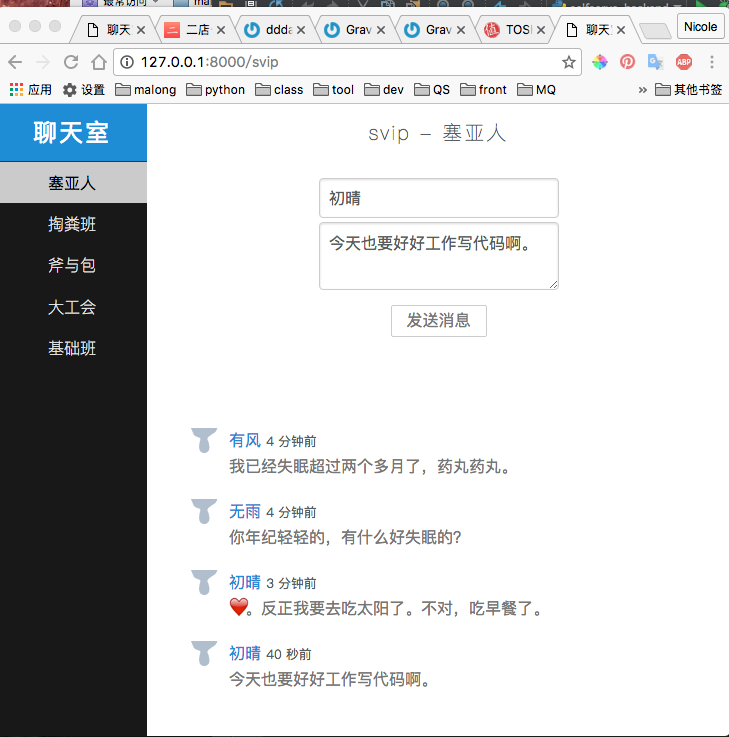
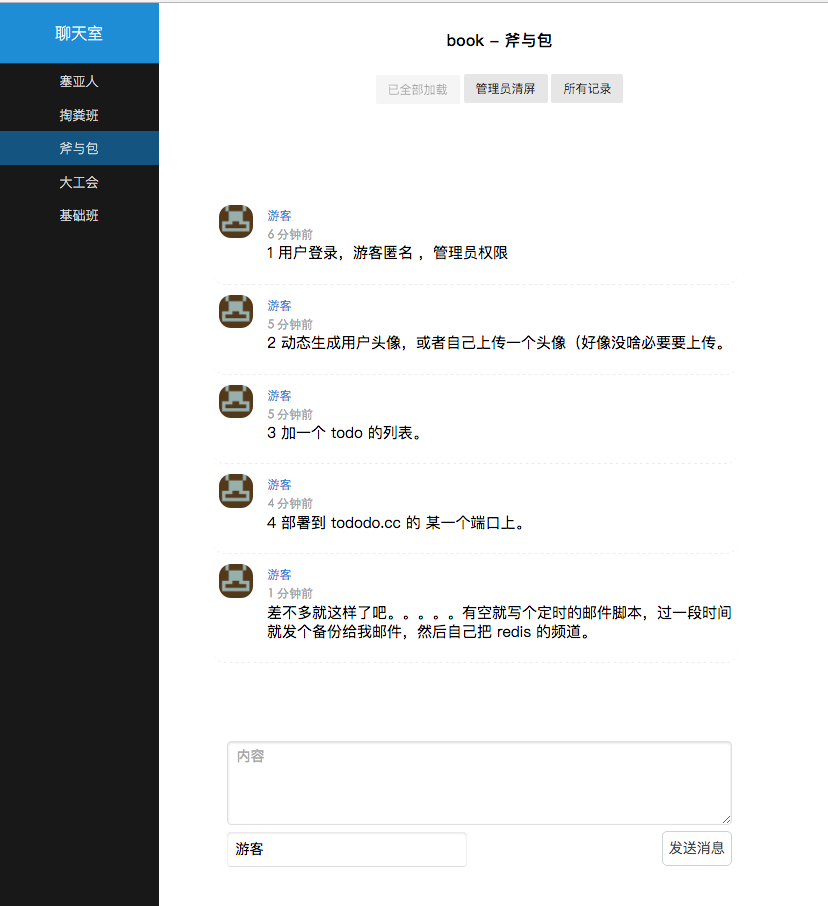
add

diff --git a/src/templates/chats.html b/src/templates/chats.html
@@ -1,0 +1,28 @@
+{% extends 'base.html' %}
+
+{% block board %}
+    <div id="id-div-board">
+        <h4 id="currentChannel" data-name="{{ channel_name }}">{{ channel_name }} - {{ channel_title }}</h4>
+    </div>
+{% endblock %}
+
+{% block content %}
+    {% if chats %}
+        {% for chat in chats %}
+            <div class="chat-item">
+                <div class="user">
+                    <div class="user-avatar"><img src="{{ chat.avatar }}" class="user-avatar"></div>
+                    <div class="user-info">
+                        <div class="user-name">{{ chat.name }}</div>
+                        <div class="pass-time" href="#">
+                            <time data-time="{{ chat.created_time }}"></time>
+                        </div>
+                    </div>
+                </div>
+                <div class="user_content">
+                    {{ chat.content }}
+                </div>
+            </div>
+        {% endfor %}
+    {% endif %}
+{% endblock %}

diff --git a/src/templates/base.html b/src/templates/base.html
@@ -36,7 +36,10 @@
             {% endblock %}
 
             <div class="content" id="id-div-chats">
+                {% block content %}
+                {% endblock %}
             </div>
+
             <div id="id-div-panel">
                 <form class="pure-form pure-form-stacked" style="width: 100%">
                     <textarea id='id-input-content' class="sai-form-block" placeholder="内容"></textarea>

diff --git a/src/redis_chat_app.py b/src/redis_chat_app.py
@@ -1,12 +1,19 @@
 # coding: utf-8
-from src.redis_channel import stream, redis_client, Chat_Channels, exist_channel
 
-from flask import Flask
-from flask import request
-from flask import render_template
-from flask import redirect, url_for, Response, abort
+import logging
 import time
 import json
+
+from flask import (
+    Flask,
+    request,
+    render_template,
+    redirect,
+    url_for,
+    abort,
+    Response,
+)
+from src.redis_channel import stream, redis_client, Chat_Channels, exist_channel
 
 app = Flask(__name__)
 app.secret_key = 'key'
@@ -62,15 +69,23 @@ def channel_list(channel):
             next_cursor = -1
         else:
             next_cursor = end
-        data = {
-            'messages': messages,
-            'start': start,
-            'end': end,
-            'next_cursor': next_cursor,
-            'loaded': bool(next_cursor),
-        }
-        data = json.dumps(data, indent=4)
-        return data, 200
+        if args.get('html') is None:
+            data = {
+                'messages': messages,
+                'start': start,
+                'end': end,
+                'next_cursor': next_cursor,
+                'loaded': bool(next_cursor),
+            }
+            data = json.dumps(data, indent=0, separators=(',', ': '))
+            return data, 200
+        else:
+            data = dict(
+                channel_name=channel,
+                channel_title=Chat_Channels.get(channel),
+                chats=[json.loads(x) for x in messages]
+            )
+            return render_template('chats.html', **data)
 
 
 @app.route('/<channel>/clear', methods=['GET'])
@@ -79,7 +94,9 @@ def channel_clear(channel):
         abort(404)
     else:
         redis_client.delete(channel)
-        return 'OK'
+        message = '[clear {}]'.format(channel)
+        logging.info(message)
+        return redirect(url_for('channel', channel=channel))
 
 
 @app.route('/<channel>/add', methods=['POST'])

diff --git a/README.md b/README.md
@@ -24,4 +24,4 @@ gunicorn --log-level debug --access-logfile gunicorn.log --worker-class=gevent -
 ___
 
 预览图
- ![image](https://github.com/dodoru/redis-chat/blob/master/img/001.png)
+ ![image](https://github.com/dodoru/co-redis-chat/blob/master/img/001.png)
